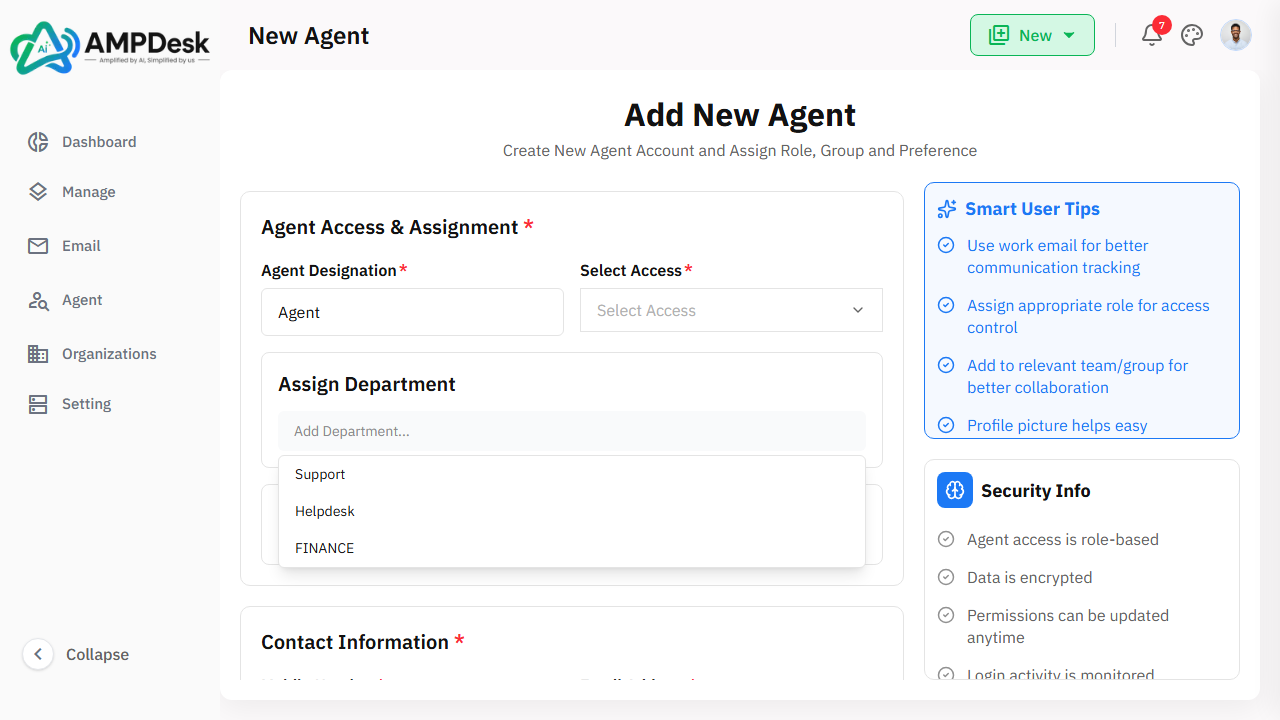
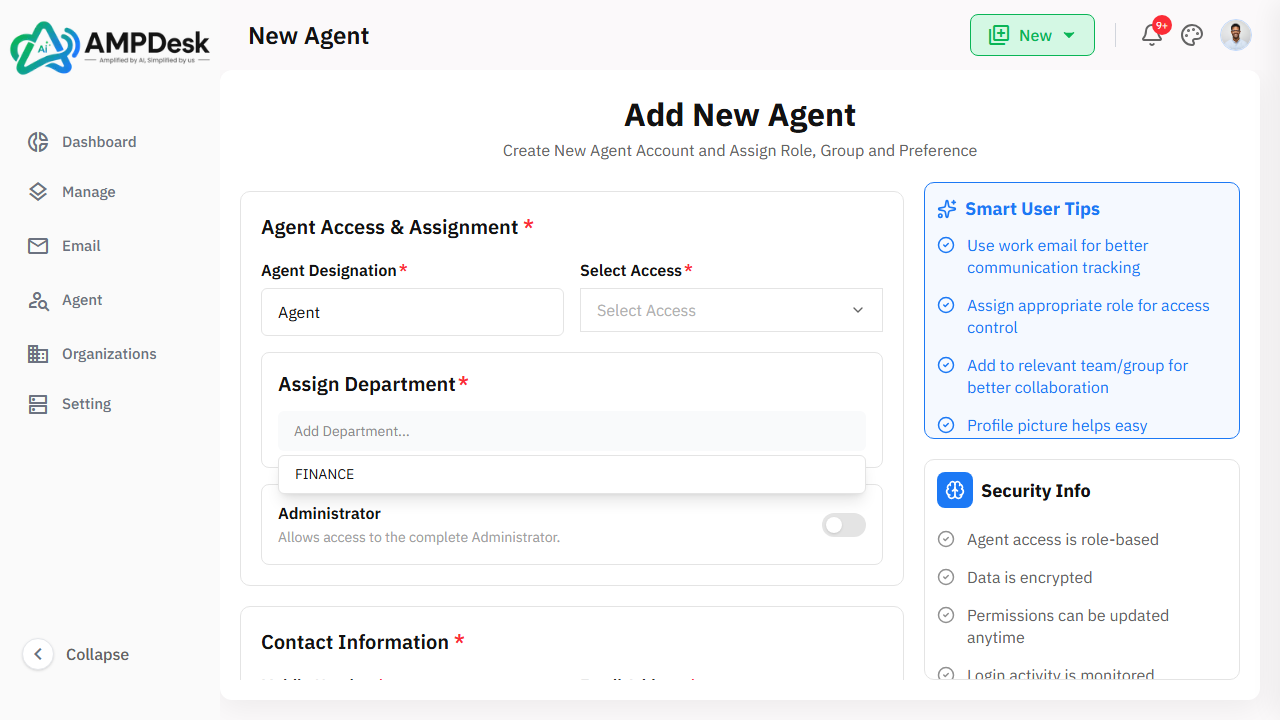
changes

Changed region(s): [[0.2188, 0.6417, 0.6875, 0.7944]]

diff --git a/src/main/java/com/qa/helpdesk/pages/AdminPage.java b/src/main/java/com/qa/helpdesk/pages/AdminPage.java
@@ -46,7 +46,7 @@ public class AdminPage {
         page.getByRole(AriaRole.TEXTBOX, new Page.GetByRoleOptions().setName("e.g. Agent/Admin"))
                 .pressSequentially("Agent");
         page.getByRole(AriaRole.TEXTBOX, new Page.GetByRoleOptions().setName("Add Department...")).click();
-        page.getByText("Support", new Page.GetByTextOptions().setExact(true)).click();
+        page.getByText("FINANCE", new Page.GetByTextOptions().setExact(true)).click();
         page.getByRole(AriaRole.BUTTON).filter(new Locator.FilterOptions().setHasText(Pattern.compile("^$"))).nth(3)
                 .click();
         page.getByRole(AriaRole.TEXTBOX, new Page.GetByRoleOptions().setName("Enter Mobile Number"))
